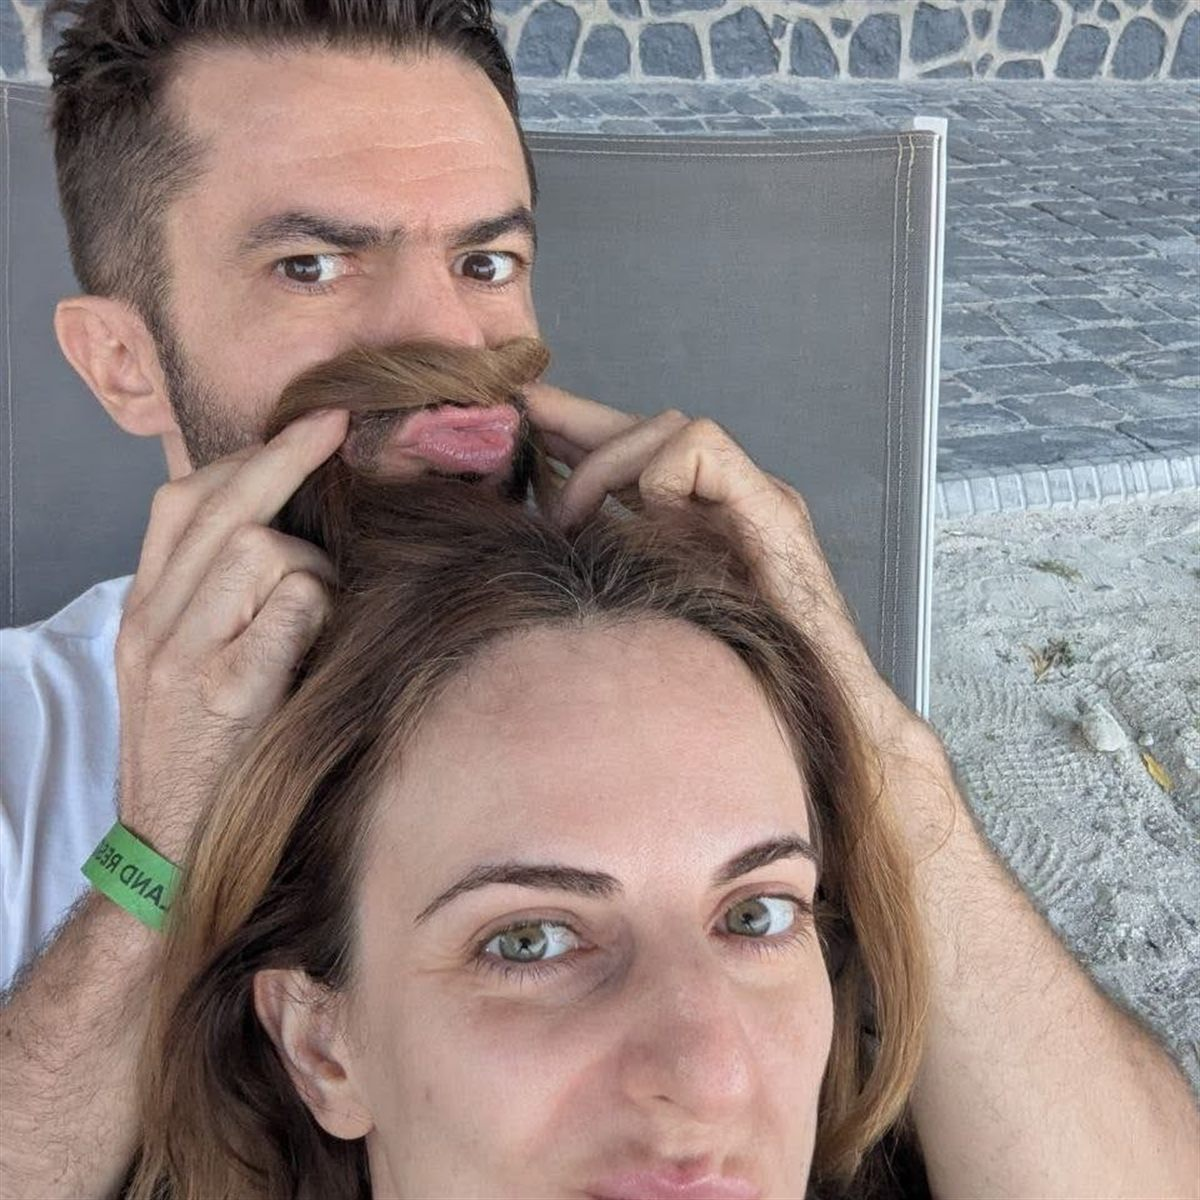
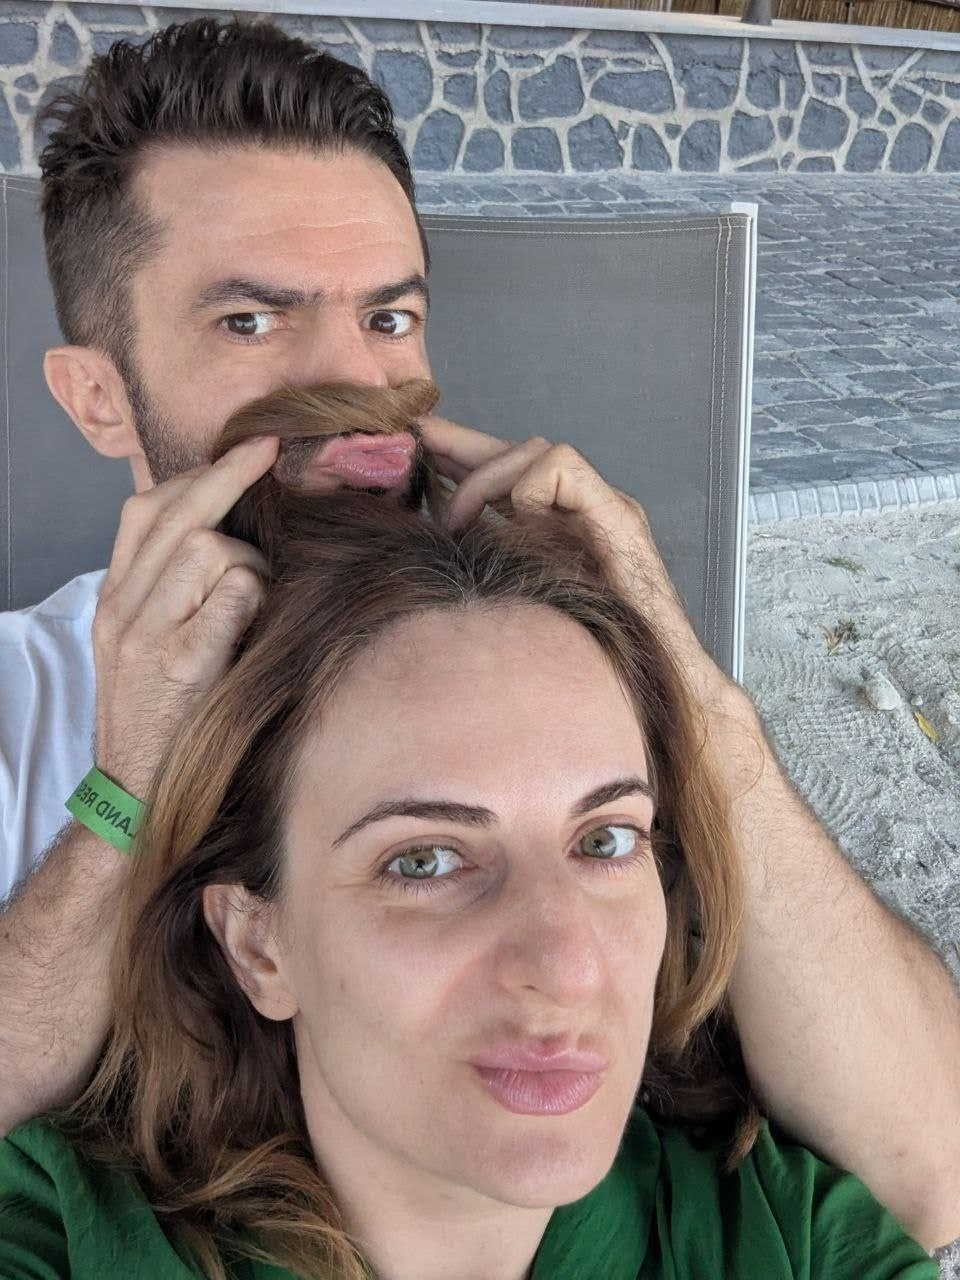
Fix the photo crops and swap in two DiliJazz images
- Hero: rebuild the depth-of-field pass so both faces stay fully sharp
  (the previous feather accumulated to only ~64% opacity over the core),
  and drop the forced 4:3 / 3:4 crop so the frame shows whole.
- DiliJazz section: use the indoor pool over the forest instead of the
  chalet, which reads better in Stay With Us further down.
- Details: add the DiliJazz signpost under the map link, cropped in on
  the arrow.
- Closing portrait: restore the full frame; the square crop was cutting
  into both faces.

diff --git a/index.html b/index.html
@@ -95,7 +95,7 @@
 
       <figure class="hero__figure reveal">
         <!-- asset: hero-couple-image -->
-        <img src="assets/img/hero-couple.jpg" alt="Gohar and Roman together on an evening out" width="1280" height="766">
+        <img src="assets/img/hero-couple.jpg" alt="Gohar and Roman together on an evening out" width="1600" height="958">
       </figure>
     </div>
   </section>
@@ -140,6 +140,11 @@
             <span class="arr" aria-hidden="true">→</span>
           </a>
         </div>
+
+        <figure class="venue__sign">
+          <!-- asset: dilijazz-sign -->
+          <img src="assets/img/dilijazz-sign.jpg" alt="A wooden signpost pointing the way to DiliJazz" width="389" height="307" loading="lazy">
+        </figure>
       </div>
     </div>
 
@@ -186,8 +191,8 @@
       </div>
 
       <figure class="hotel__figure reveal">
-        <!-- asset: dilijazz-exterior -->
-        <img src="assets/img/dilijazz-exterior.jpg" alt="A chalet among the trees at DiliJazz, lit up at dusk" width="1700" height="1134" loading="lazy">
+        <!-- asset: dilijazz-pool -->
+        <img src="assets/img/dilijazz-pool.jpg" alt="The indoor pool at DiliJazz, with the forest through a wall of glass" width="1600" height="1067" loading="lazy">
       </figure>
     </div>
 

diff --git a/assets/css/style.css b/assets/css/style.css
@@ -331,11 +331,9 @@ a { color: inherit; }
 
 .hero__figure { position: relative; }
 .hero__figure img {
+  /* show the photograph whole - no crop */
   width: 100%;
-  aspect-ratio: 4 / 3;
-  object-fit: cover;
-  /* keep the framing on the couple (left of centre in the frame) */
-  object-position: 32% center;
+  height: auto;
   border-radius: 2px;
 }
 
@@ -344,7 +342,6 @@ a { color: inherit; }
     grid-template-columns: 1.05fr 0.95fr;
     gap: clamp(48px, 6vw, 90px);
   }
-  .hero__figure img { aspect-ratio: 3 / 4; }
 }
 
 /* ============================================ 4. PERSONAL INVITATION == */
@@ -406,6 +403,9 @@ a { color: inherit; }
 .venue strong { font-weight: 500; }
 .venue__city { color: var(--espresso-45); }
 .venue__cta { margin-top: 1.6em; }
+
+.venue__sign { margin-top: clamp(26px, 3.4vw, 40px); max-width: 340px; }
+.venue__sign img { width: 100%; border-radius: 2px; }
 
 @media (min-width: 820px) {
   .details__head { grid-template-columns: 1.4fr 1fr; }
